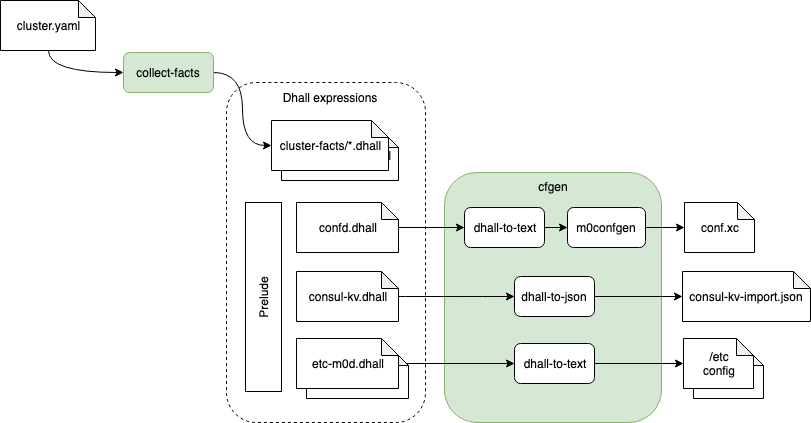
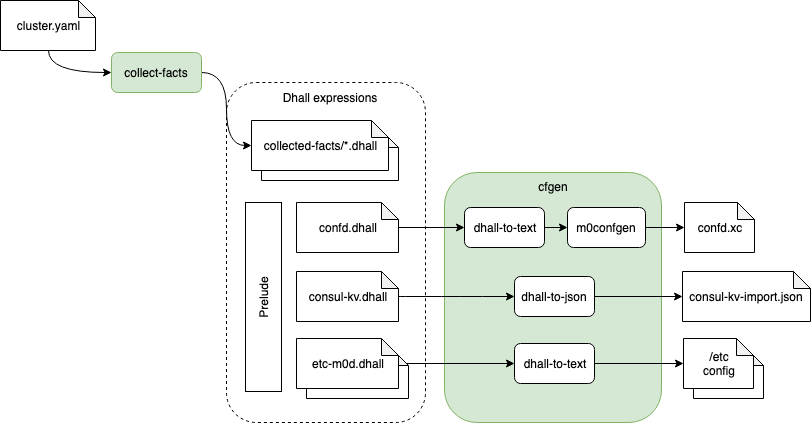
rfc (3/CFGEN): Update the diagram
* s/cluster-facts/collected-facts/.  The former name had interesting
  connotations.  New name is rather dull in this respect, but it  highlights its relation to `collect-facts` script.

diff --git a/rfc/3/README.md b/rfc/3/README.md
@@ -29,7 +29,7 @@ The program reads cluster description in YAML format from the standard input;
 '--help-schema' option shows the schema.
 ```
 
-**collect-facts** ssh-es to the hosts mentioned in the cluster description file, collects "facts" about them (e.g., `facter --json processors | jq .processors.count`, `facter memorysize_mb`) and saves that data locally as [Dhall](https://dhall-lang.org/) expressions (`cluster-facts/*.dhall`).
+**collect-facts** ssh-es to the hosts mentioned in the cluster description file, collects "facts" about them (e.g., `facter --json processors | jq .processors.count`, `facter memorysize_mb`) and saves that data locally as [Dhall](https://dhall-lang.org/) expressions (`collected-facts/*.dhall`).
 
 ### `cfgen`
 
